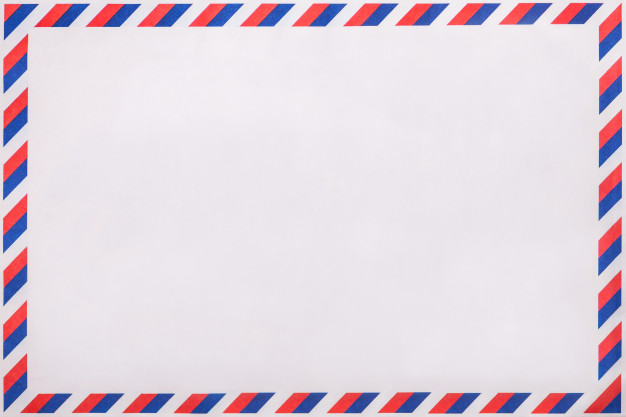
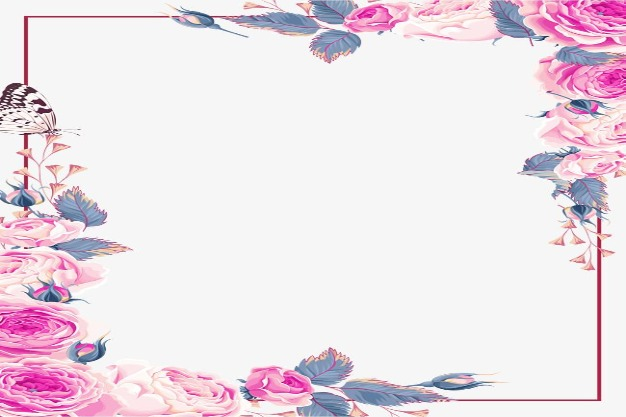
added pictures (#34)
* incorporated imaging into get_image

* did get_image additions

* Delete .idea directory

* Delete .DS_Store

* added more background pictures v2

* Delete .idea directory

* fixing checks

* Delete .idea directory

diff --git a/utils.py b/utils.py
@@ -4,6 +4,7 @@ import io
 from PIL import Image
 from PIL import ImageFont
 from PIL import ImageDraw
+import random
 
 from better_profanity import profanity
 import textwrap
@@ -25,24 +26,20 @@ def check_message(msg: str) -> bool:
         return True
 
 
-def get_image(background: str, msg: str) -> discord.File:
-
+def get_image(msg: str) -> discord.File:
     font_type = ImageFont.truetype("Font/arial.ttf", 15)
 
-    img = Image.open("backgrounds.1.jpg")
-    WIDTH , HEIGHT = img.size
+    img = Image.open(f"backgrounds/{random.randint(0,2)}.jpg")
+    width, height = img.size
 
     lines = textwrap.wrap(msg, width=50)
 
     draw = ImageDraw.Draw(img)
 
     for line in lines:
-        width = height = font_type.getsize(line)
-        draw.text((WIDTH / 10, HEIGHT / 5), msg, (0, 0, 0), font=font_type)
-        HEIGHT += 100
+        draw.text((width / 10, height / 5), msg, (0, 0, 0), font=font_type)
+        height += 100
 
-
-    img = Image.open(f"backgrounds/{background}")
     bio = io.BytesIO()
     img.save(bio, format="PNG")
     bio.seek(0)

diff --git a/bot.py b/bot.py
@@ -70,8 +70,7 @@ async def retrieve_my_msgs(ctx: Context, as_images: str = ""):
         if mc == 0:
             await ctx.send(render_template("no_replies.j2", req=req))
         elif as_images == "images":
-            files = [get_image("1.jpg", r.message) for r in req.responses]
-            # TODO fix files limit
+            files = [get_image(r.message) for r in req.responses]
             page_count = ceildiv(len(files), 10)
             for i in range(page_count):
                 await ctx.send(
